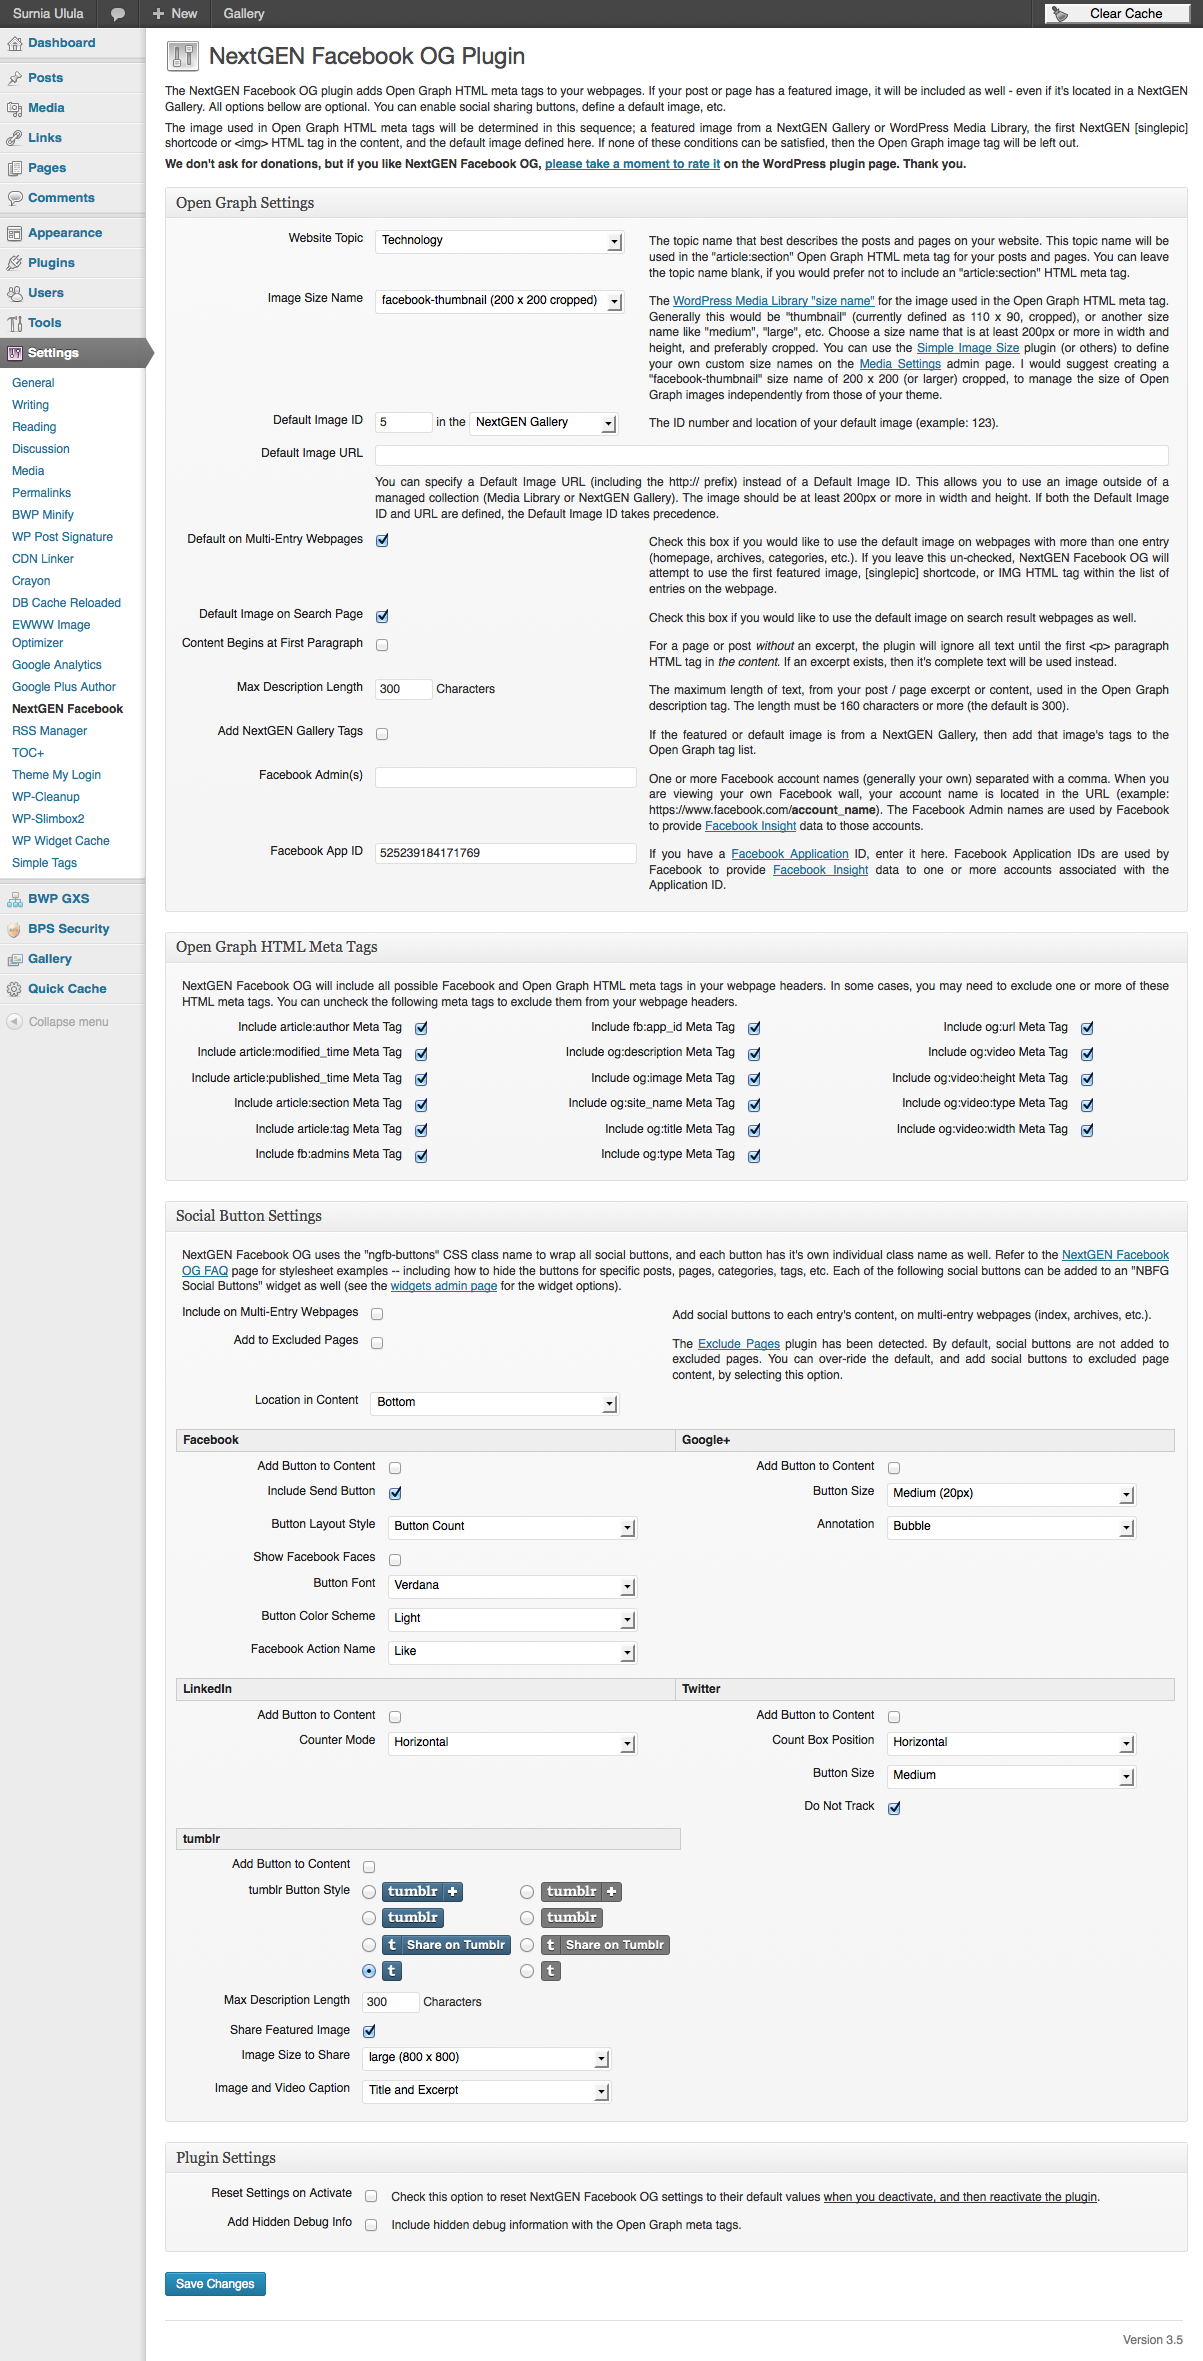
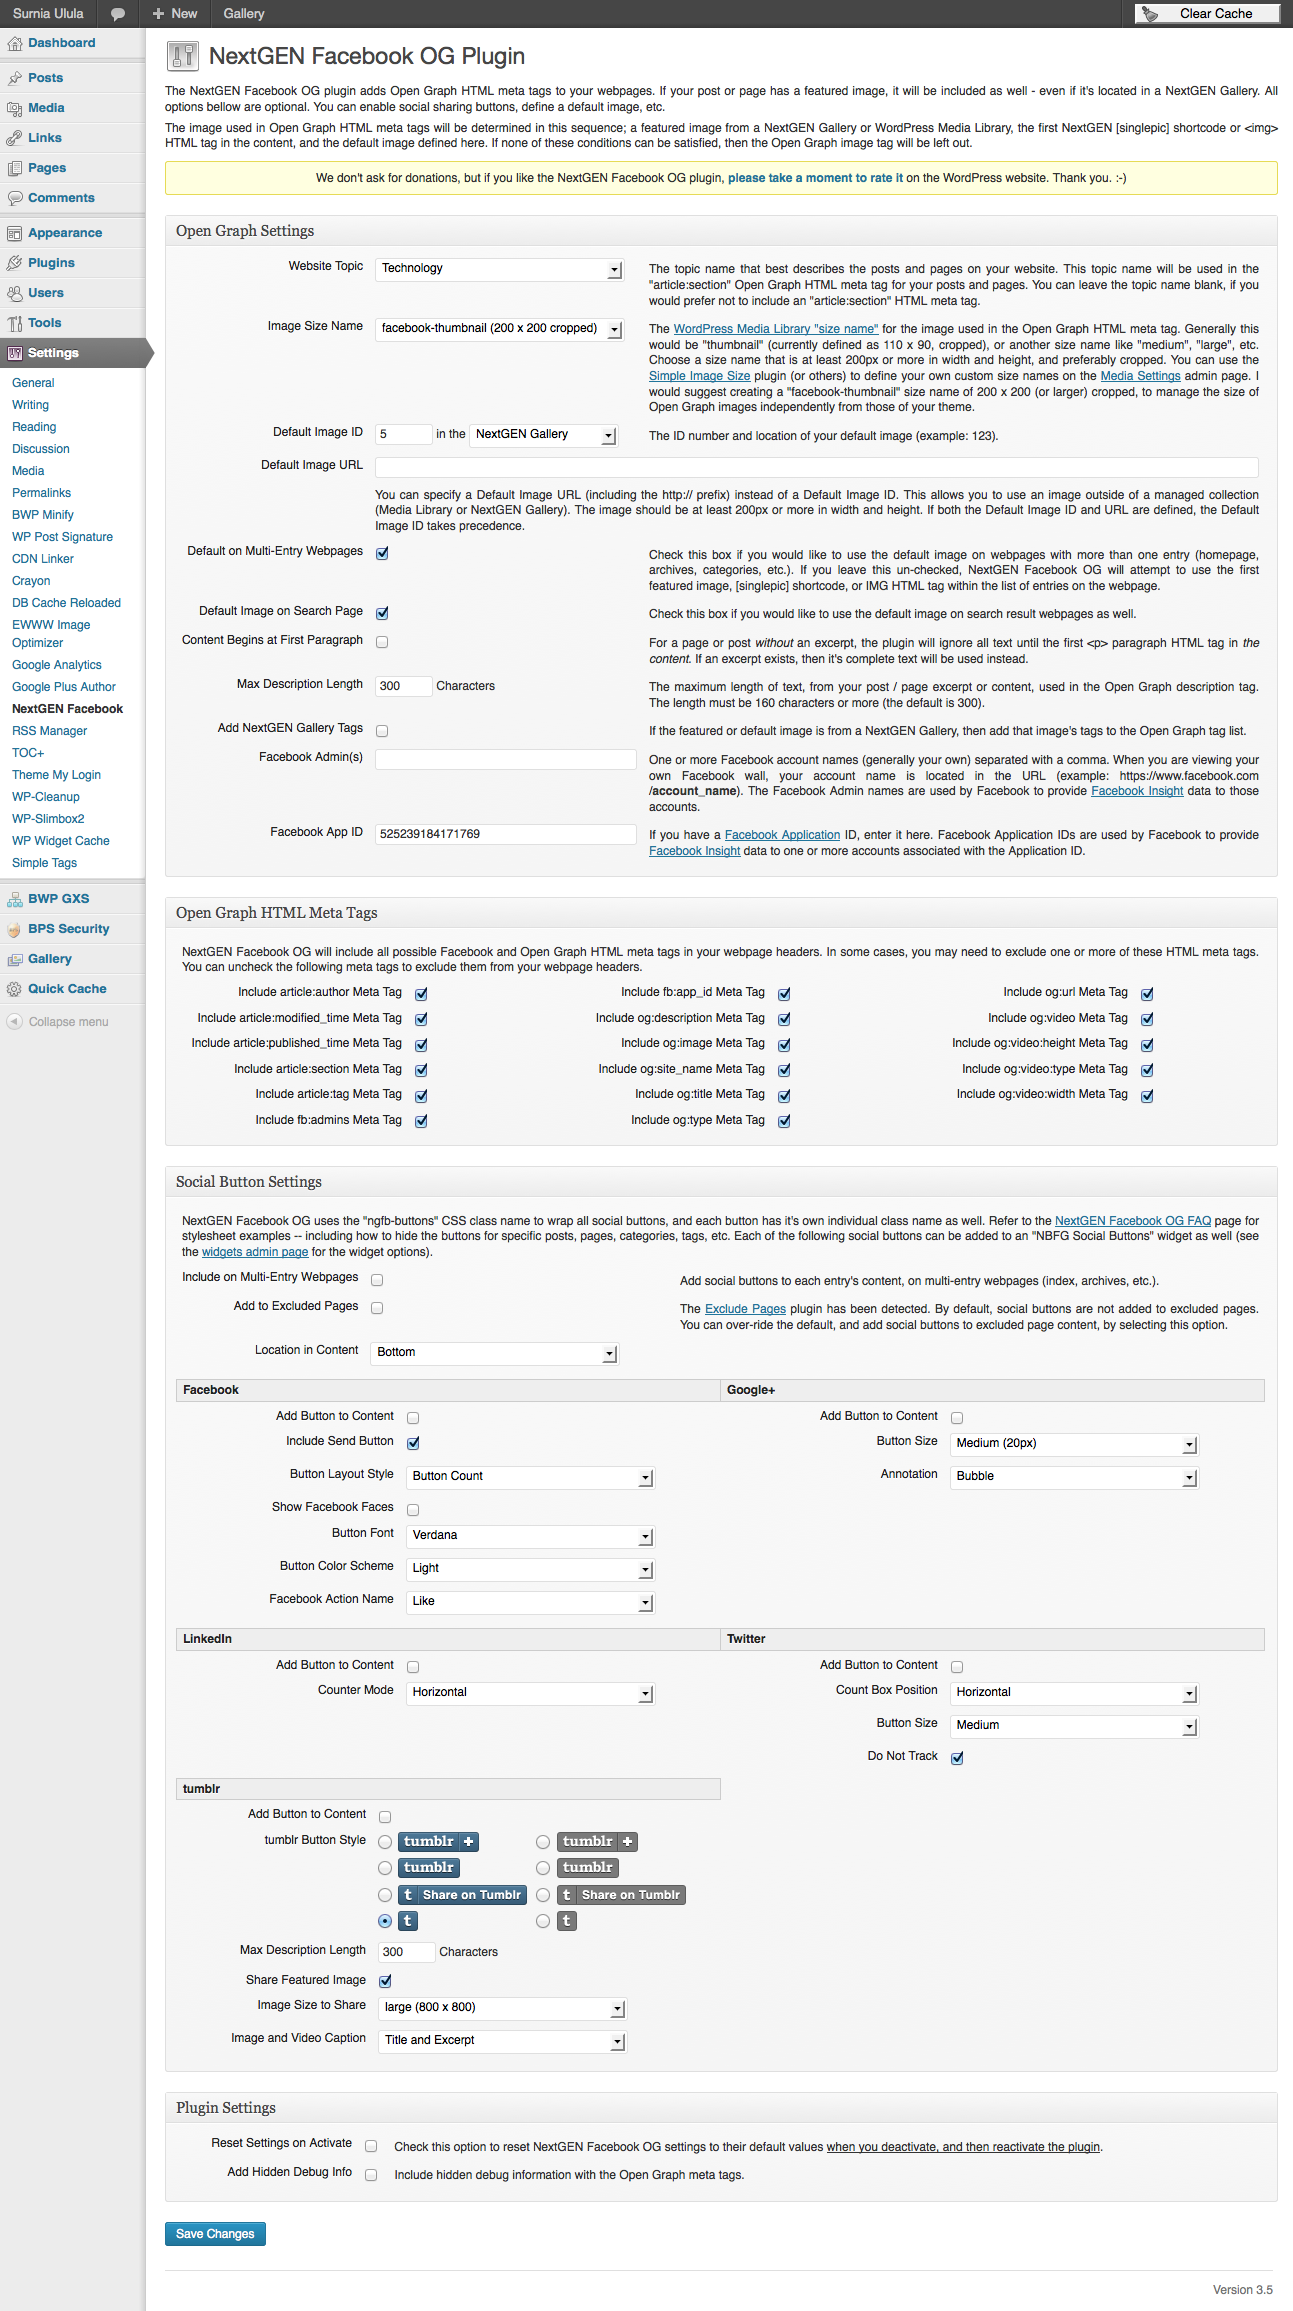
update screenshot
git-svn-id: https://plugins.svn.wordpress.org/nextgen-facebook/trunk@643426 b8457f37-d9ea-0310-8a92-e5e31aec5664

diff --git a/nextgen-facebook.php b/nextgen-facebook.php
@@ -403,7 +403,7 @@ function ngfb_render_form() {
 
 	<p>The image used in Open Graph HTML meta tags will be determined in this sequence; a featured image from a NextGEN Gallery or WordPress Media Library, the first NextGEN [singlepic] shortcode or &lt;img&gt; HTML tag in the content, and the default image defined here. If none of these conditions can be satisfied, then the Open Graph image tag will be left out.</p>
 
-	<p><strong>We don't ask for donations, but if you like NextGEN Facebook OG, <a href="http://wordpress.org/extend/plugins/nextgen-facebook/"><strong>please take a moment to rate it</strong></a> on the WordPress plugin page. Thank you.</strong></p>
+	<div class="updated" style="margin:10px 0;"><p style="text-align:center">We don't ask for donations, but if you like the NextGEN Facebook OG plugin, <a href="http://wordpress.org/support/view/plugin-reviews/nextgen-facebook?rate=5#postform"><strong>please take a moment to rate it</strong></a> on the WordPress website. Thank you. :-)</p></div>
 
 	<div class="metabox-holder">
 		<div class="postbox">
